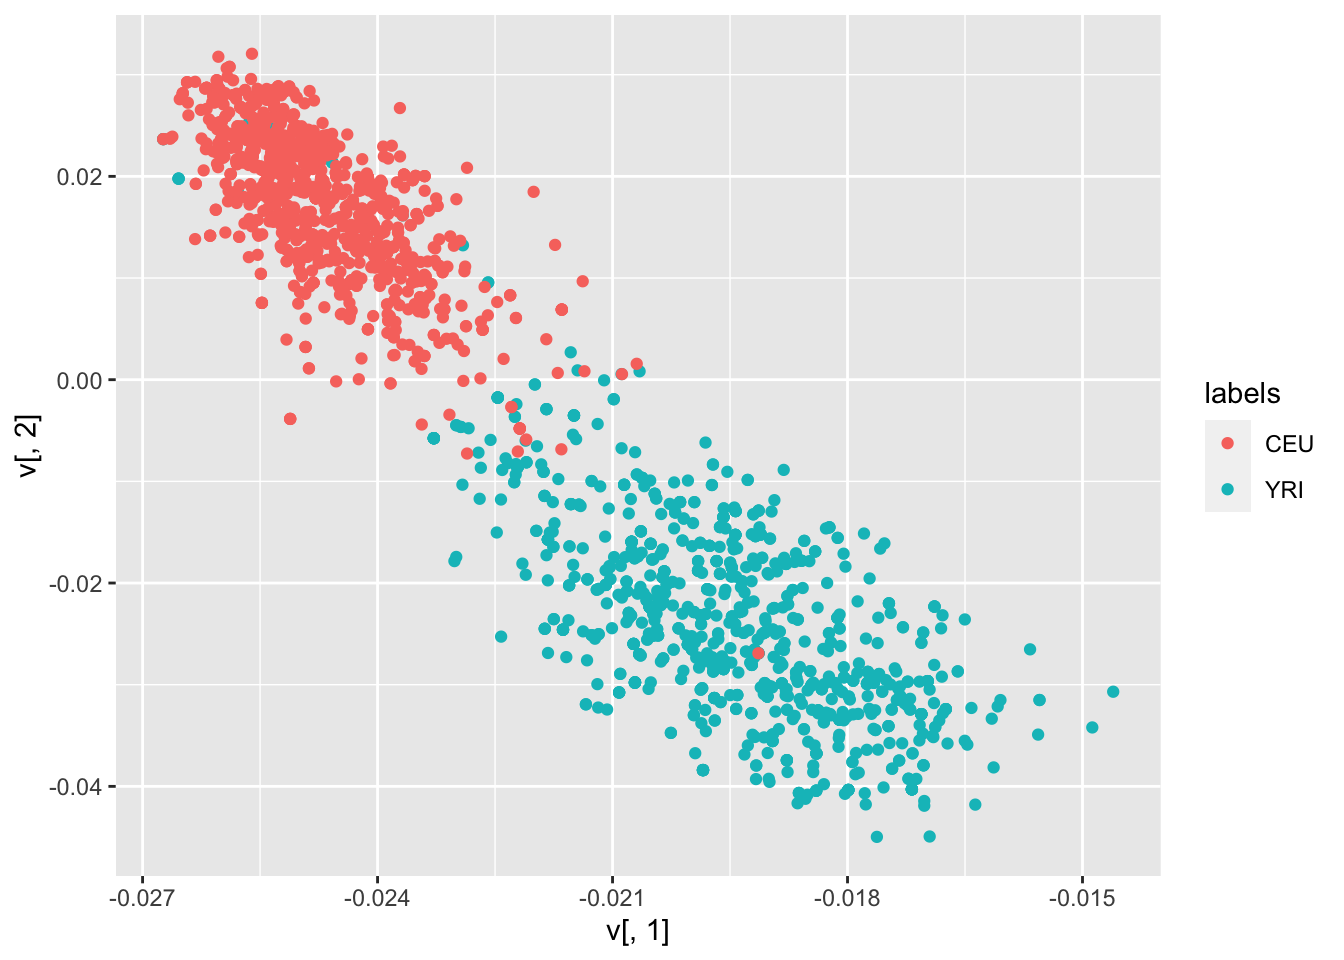
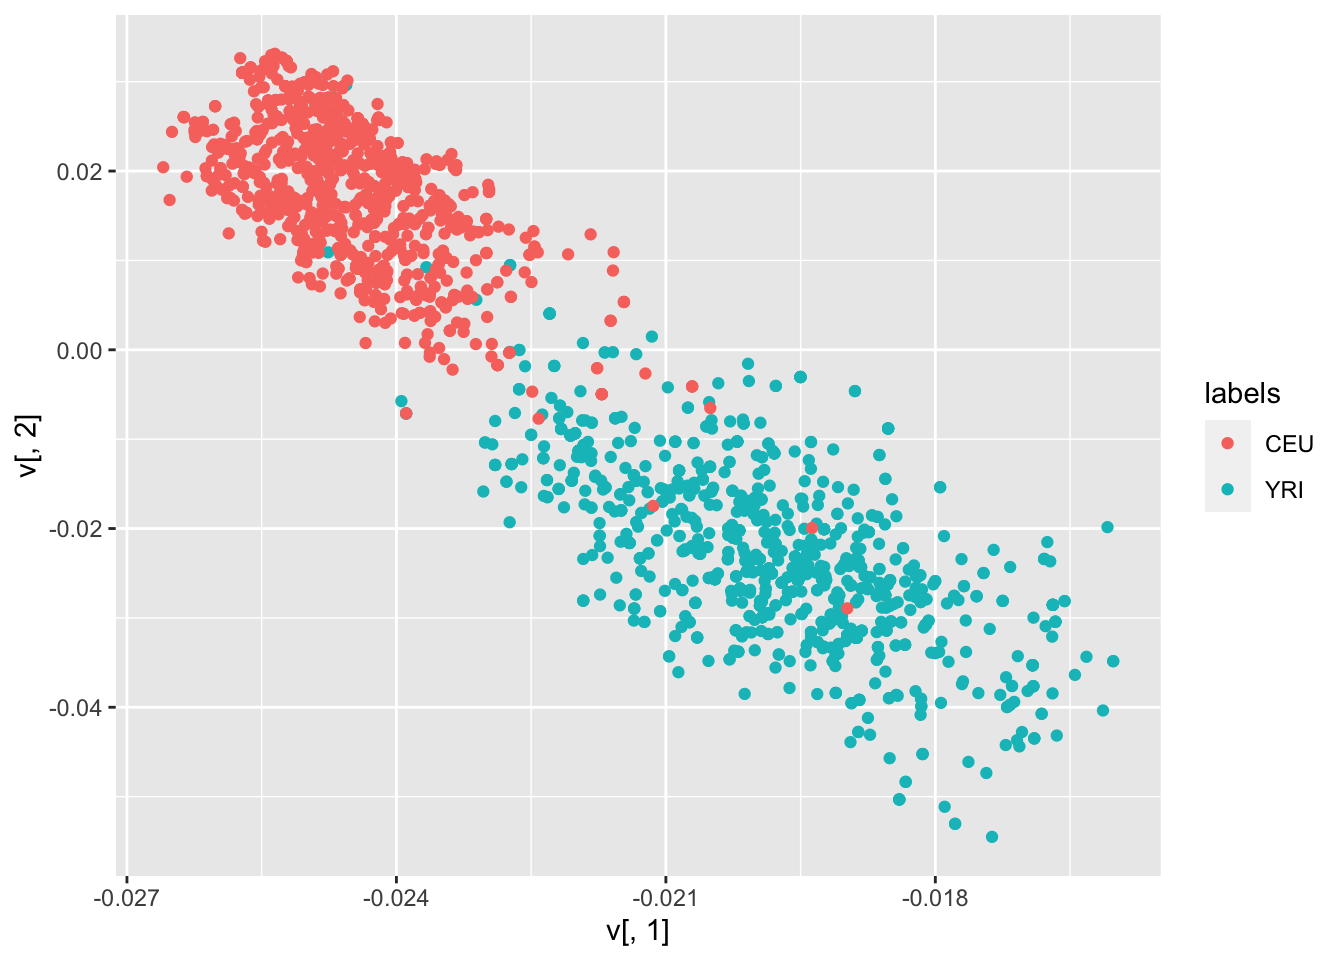
Build site.

diff --git a/docs/Simulation_Outline.html b/docs/Simulation_Outline.html
@@ -412,7 +412,7 @@ div.tocify {
 <div class="tab-content">
 <div id="summary" class="tab-pane fade in active">
 <p>
-<strong>Last updated:</strong> 2020-09-21
+<strong>Last updated:</strong> 2020-09-22
 </p>
 <p>
 <strong>Checks:</strong> <span class="glyphicon glyphicon-ok text-success" aria-hidden="true"></span> 7 <span class="glyphicon glyphicon-exclamation-sign text-danger" aria-hidden="true"></span> 0
@@ -503,16 +503,16 @@ This reproducible <a href="http://rmarkdown.rstudio.com">R Markdown</a> analysis
 <div class="panel panel-default">
 <div class="panel-heading">
 <p class="panel-title">
-<a data-toggle="collapse" data-parent="#workflowr-checks" href="#strongRepositoryversionstrongahrefhttpsgithubcomjgblancderancIVtree19c8a8bcfdc5edac48e3092d8405ab9e3a16b0bftargetblank19c8a8ba"> <span class="glyphicon glyphicon-ok text-success" aria-hidden="true"></span> <strong>Repository version:</strong> <a href="https://github.com/jgblanc/der-anc-IV/tree/19c8a8bcfdc5edac48e3092d8405ab9e3a16b0bf" target="_blank">19c8a8b</a> </a>
+<a data-toggle="collapse" data-parent="#workflowr-checks" href="#strongRepositoryversionstrongahrefhttpsgithubcomjgblancderancIVtree82cfe4a130d1d25a89ba18b4ac5ab2e662025af2targetblank82cfe4aa"> <span class="glyphicon glyphicon-ok text-success" aria-hidden="true"></span> <strong>Repository version:</strong> <a href="https://github.com/jgblanc/der-anc-IV/tree/82cfe4a130d1d25a89ba18b4ac5ab2e662025af2" target="_blank">82cfe4a</a> </a>
 </p>
 </div>
[2 lines of base64/hex data omitted]
 <div class="panel-body">
 <p>
 Great! You are using Git for version control. Tracking code development and connecting the code version to the results is critical for reproducibility.
 </p>
 <p>
-The results in this page were generated with repository version <a href="https://github.com/jgblanc/der-anc-IV/tree/19c8a8bcfdc5edac48e3092d8405ab9e3a16b0bf" target="_blank">19c8a8b</a>. See the <em>Past versions</em> tab to see a history of the changes made to the R Markdown and HTML files.
+The results in this page were generated with repository version <a href="https://github.com/jgblanc/der-anc-IV/tree/82cfe4a130d1d25a89ba18b4ac5ab2e662025af2" target="_blank">82cfe4a</a>. See the <em>Past versions</em> tab to see a history of the changes made to the R Markdown and HTML files.
 </p>
 <p>
 Note that you need to be careful to ensure that all relevant files for the analysis have been committed to Git prior to generating the results (you can use <code>wflow_publish</code> or <code>wflow_git_commit</code>). workflowr only checks the R Markdown file, but you know if there are other scripts or data files that it depends on. Below is the status of the Git repository when the results were generated:
@@ -567,6 +567,40 @@ Message
 </tr>
 </thead>
 <tbody>
+<tr>
+<td>
+Rmd
+</td>
+<td>
+<a href="https://github.com/jgblanc/der-anc-IV/blob/82cfe4a130d1d25a89ba18b4ac5ab2e662025af2/analysis/Simulation_Outline.Rmd" target="_blank">82cfe4a</a>
+</td>
+<td>
+jgblanc
+</td>
+<td>
+2020-09-22
+</td>
+<td>
+exploring snp loadings
+</td>
+</tr>
+<tr>
+<td>
+html
+</td>
+<td>
+<a href="https://rawcdn.githack.com/jgblanc/der-anc-IV/2145bf26d0e3545f68b662d773b29c3dca6635ff/docs/Simulation_Outline.html" target="_blank">2145bf2</a>
+</td>
+<td>
+jgblanc
+</td>
+<td>
+2020-09-21
+</td>
+<td>
+Build site.
+</td>
+</tr>
 <tr>
 <td>
 Rmd
@@ -851,36 +885,19 @@ Coefficients:
 <pre><code>  s_hat 
 3.04865 </code></pre>
 </div>
-<div id="simulations-2---using-real-genotype-matrices" class="section level2">
-<h2>Simulations 2 - using real genotype matrices</h2>
-<p><strong>Generate data</strong></p>
-<p>First I simulated 2000 individuals (500 YRI, 500 CEU) and output the freq difference between the two populations (YRI - CEU) for all SNPs that are private to one or the other population</p>
-<p>Read in freq diff</p>
-<pre class="r"><code>diff &lt;- fread(&quot;../data/simple_simulations/freq_diff.txt&quot;)
-mean(diff$V1)</code></pre>
-<pre><code>[1] 0.006740734</code></pre>
-<pre class="r"><code>nrow(diff)</code></pre>
-<pre><code>[1] 329299</code></pre>
-<pre class="r"><code>sum(diff$V1 &gt; 0)/nrow(diff)</code></pre>
-<pre><code>[1] 0.5529807</code></pre>
-<pre class="r"><code>sum(diff$V1 &lt; 0)/nrow(diff)</code></pre>
-<pre><code>[1] 0.4470193</code></pre>
-<pre class="r"><code>diff &lt;- fread(&quot;../data/simple_simulations/freq_diff_all.txt&quot;)
-mean(diff$V1)</code></pre>
-<pre><code>[1] -2.657881e-05</code></pre>
-<pre class="r"><code>nrow(diff)</code></pre>
-<pre><code>[1] 426352</code></pre>
-<pre class="r"><code>sum(diff$V1 &gt; 0)/nrow(diff)</code></pre>
-<pre><code>[1] 0.5448925</code></pre>
-<pre class="r"><code>sum(diff$V1 &lt; 0)/nrow(diff)</code></pre>
-<pre><code>[1] 0.4550864</code></pre>
-<pre class="r"><code>G &lt;- fread(&quot;../data/simple_simulations/G_small.txt&quot;)
-decomp &lt;- readRDS(&quot;~/Desktop/demcomp.rds&quot;)
-
+<div id="exploring-snp-loadings" class="section level2">
+<h2>Exploring SNP loadings</h2>
+<p>First I simulated 2000 individuals (1000 YRI, 1000 CEU) and output the Genotype matrix and derived allele frequency of varriants in each population.</p>
+<p>Read in genotype matrix</p>
+<pre class="r"><code>G &lt;- fread(&quot;../data/simple_simulations/G_small_1.txt&quot;)
+dim(G)</code></pre>
+<pre><code>[1] 4204 2000</code></pre>
+<p>Singular value decompostion of the genotype matrix</p>
+<pre class="r"><code>decomp &lt;- svd(G, nu = 20)
 u &lt;- decomp$u
-v &lt;- decomp$v
-
-labels &lt;- as.factor(c(rep(&quot;YRI&quot;,1000), rep(&quot;CEU&quot;,1000)))
+v &lt;- decomp$v</code></pre>
+<p>Make PCA plot</p>
+<pre class="r"><code>labels &lt;- as.factor(c(rep(&quot;YRI&quot;,1000), rep(&quot;CEU&quot;,1000)))
 qplot(v[,1], v[,2], col = labels)</code></pre>
 <p><img src="figure/Simulation_Outline.Rmd/unnamed-chunk-10-1.png" width="672" style="display: block; margin: auto;" /></p>
 <p>
@@ -920,58 +937,22 @@ jgblanc
 </table>
 </div>
 </div>
-<pre class="r"><code>dim(u)</code></pre>
-<pre><code>[1] 4253 2000</code></pre>
-<pre class="r"><code>load_mean &lt;- colMeans(u)
-
-plot(load_mean[1:20], seq(1,20))</code></pre>
-<p><img src="figure/Simulation_Outline.Rmd/unnamed-chunk-11-1.png" width="672" style="display: block; margin: auto;" /></p>
-<p>
-<button type="button" class="btn btn-default btn-xs btn-workflowr btn-workflowr-fig" data-toggle="collapse" data-target="#fig-unnamed-chunk-11-1">
-Past versions of unnamed-chunk-11-1.png
-</button>
-</p>
-<div id="fig-unnamed-chunk-11-1" class="collapse">
-<div class="table-responsive">
-<table class="table table-condensed table-hover">
-<thead>
-<tr>
-<th>
-Version
-</th>
-<th>
-Author
-</th>
-<th>
-Date
-</th>
-</tr>
-</thead>
-<tbody>
-<tr>
-<td>
-<a href="https://github.com/jgblanc/der-anc-IV/blob/6ededdc86c9500fe170cdb6b964a8c5de793219e/docs/figure/Simulation_Outline.Rmd/unnamed-chunk-11-1.png" target="_blank">6ededdc</a>
-</td>
-<td>
-jgblanc
-</td>
-<td>
-2020-09-21
-</td>
-</tr>
-</tbody>
-</table>
-</div>
-</div>
+<p>Double check that we have the correct labels by checking the number of segregating sites in each population - YRI should have more segregating sites</p>
 <pre class="r"><code>G_YRI &lt;- G[,1:1000]
 G_CEU &lt;- G[,1001:2000]
 
 sums &lt;- rowSums(G_YRI)
 length(sums[sums != 0])</code></pre>
-<pre><code>[1] 2841</code></pre>
+<pre><code>[1] 2768</code></pre>
 <pre class="r"><code>sums &lt;- rowSums(G_CEU)
 length(sums[sums != 0])</code></pre>
-<pre><code>[1] 2263</code></pre>
+<pre><code>[1] 2204</code></pre>
+<p>Calculate the average SNP loading (across all variants) for the top 20 PCs</p>
+<pre class="r"><code>dim(u)</code></pre>
+<pre><code>[1] 4204   20</code></pre>
+<pre class="r"><code>load_mean &lt;- colMeans(u)
+qplot(load_mean[1:20], seq(1,20)) + geom_vline(xintercept = 0, col = &quot;red&quot;) + xlab(&quot;Average Loading&quot;) + ylab(&quot;PC&quot;)</code></pre>
+<p><img src="figure/Simulation_Outline.Rmd/unnamed-chunk-12-1.png" width="672" style="display: block; margin: auto;" /></p>
 <br>
 <p>
 <button type="button" class="btn btn-default btn-workflowr btn-workflowr-sessioninfo" data-toggle="collapse" data-target="#workflowr-sessioninfo" style="display: block;">
